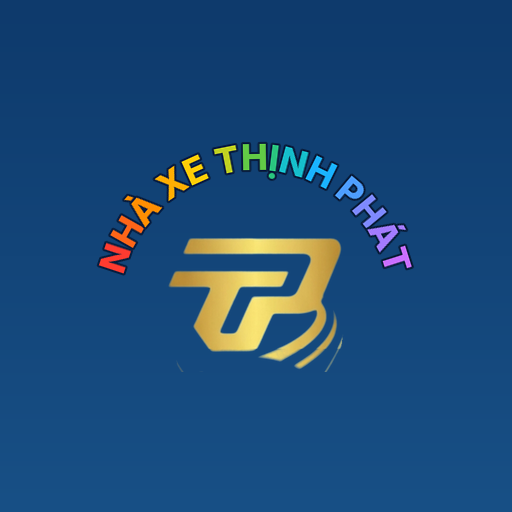
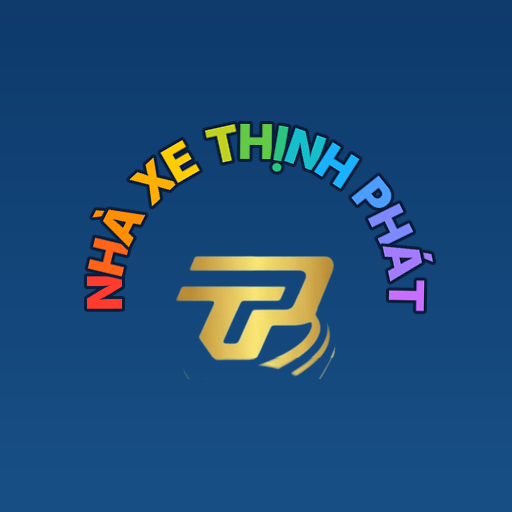
Biểu tượng app: chữ thương hiệu to hơn, cân đối lại bố cục
Claude-Session: https://claude.ai/code/session_01HmHLoMNYf4UueknpY9saEd

Changed region(s): [[0.1562, 0.2188, 0.875, 0.625], [0.3125, 0.4375, 0.6875, 0.75]]

diff --git a/index.html b/index.html
@@ -9,7 +9,7 @@
 <meta name="apple-mobile-web-app-capable" content="yes">
 <meta name="apple-mobile-web-app-title" content="Thịnh Phát">
 <meta name="apple-mobile-web-app-status-bar-style" content="default">
-<link rel="apple-touch-icon" sizes="180x180" href="icons/apple-180.png?v=2">
+<link rel="apple-touch-icon" sizes="180x180" href="icons/apple-180.png?v=3">
 
 <link rel="preconnect" href="https://fonts.googleapis.com">
 <link href="https://fonts.googleapis.com/css2?family=Be+Vietnam+Pro:wght@400;500;600;700&amp;display=swap" rel="stylesheet">
@@ -12460,7 +12460,7 @@ Object.assign(PS, {
   async arcGet(ym) { const s = await FB.col().doc('pa_lc_' + ym).get(); return s.exists ? JSON.parse(s.data().d) : []; },
   async arcPut(ym, L) { return FB.col().doc('pa_lc_' + ym).set({ t: 'pa', part: 'vanhanh', ym, at: new Date().toISOString(), d: JSON.stringify(L) }); }
 });
-const APP_BUILD = '2026-11-06T17:20';
+const APP_BUILD = '2026-11-06T17:25';
 /* CSS dùng chung bị lẫn vào module khi tách (hộp xem trước bản in, thanh trên cùng điện thoại; thẻ số liệu, tệp đính kèm sc-*, nhiên liệu nl-*, bảng giá) → trả về lõi */
 addCSS(`.sc-att{display:flex;gap:8px;flex-wrap:wrap;margin-bottom:8px}.sc-a{position:relative;width:76px;height:76px}.sc-a>button:first-child{width:100%;height:100%;border:1px solid #bae6fd;border-radius:10px;background:#f0f9ff;overflow:hidden;padding:0;cursor:pointer;display:grid;place-items:center;color:#dc2626;font-size:14px}.sc-a img{width:100%;height:100%;object-fit:cover}.sc-ax{position:absolute;top:-6px;right:-6px;width:22px;height:22px;border-radius:50%;border:1px solid #cbd5e1;background:#fff;display:grid;place-items:center;cursor:pointer;padding:0;color:#b42318}.sc-ax svg{width:12px;height:12px}
 .sc-bulk{background:#f0f9ff;border:1px solid #bae6fd;border-radius:10px;padding:10px;margin-bottom:8px}.sc-bulk textarea{width:100%;font-family:inherit;font-size:13.5px;line-height:1.5;resize:vertical}.sc-bh{display:flex;gap:6px;align-items:center;margin-top:6px;flex-wrap:wrap}.sc-bulk[hidden]{display:none}
